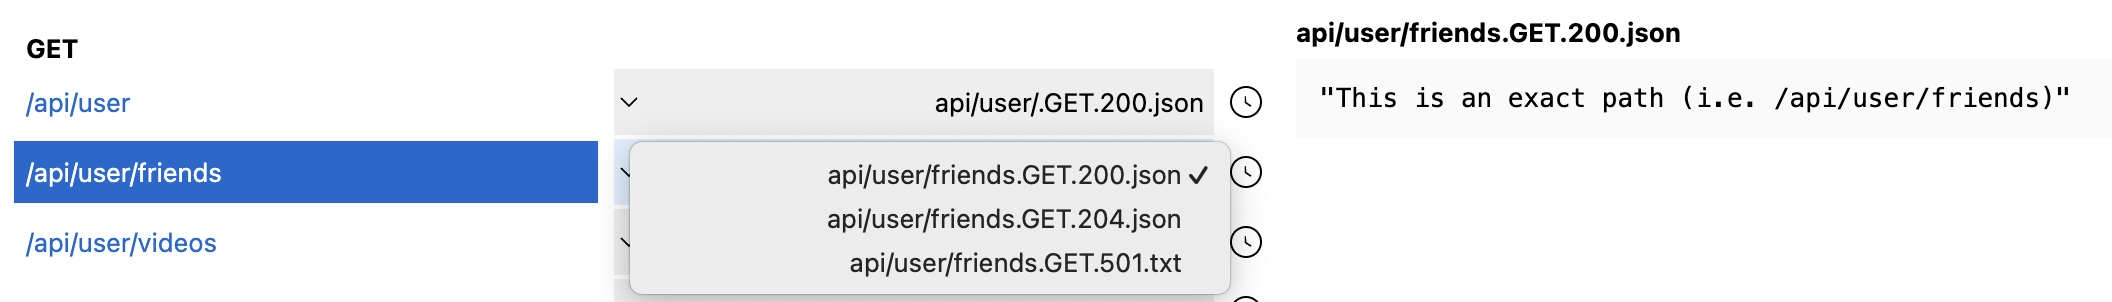
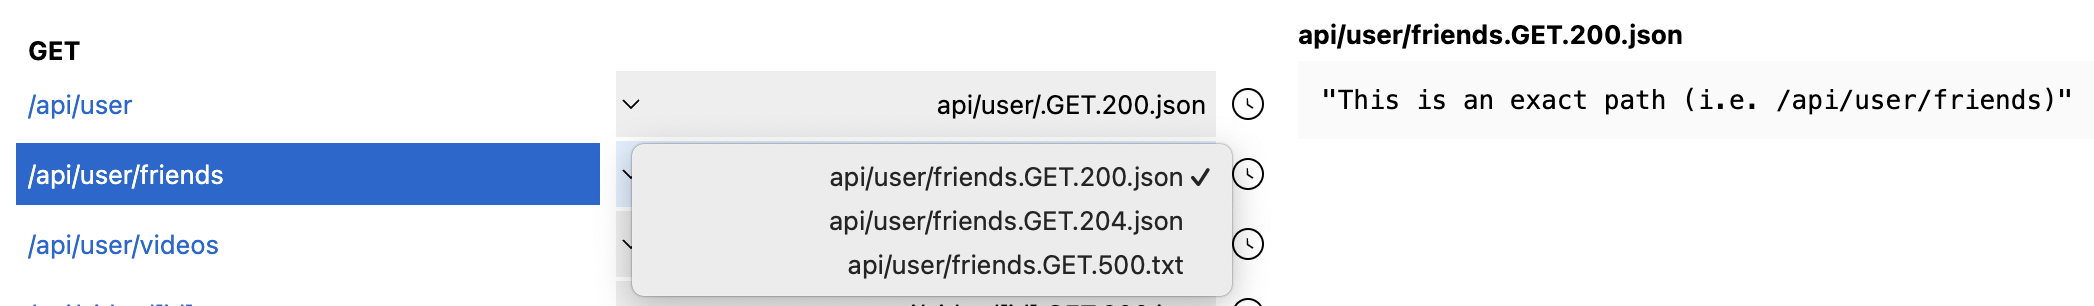
501 -> 500
500 is Internal Server Error not 501

diff --git a/Tests.js b/Tests.js
@@ -90,7 +90,7 @@ const fixtures = [
 for (const [, file, body] of fixtures)
 	write(file, file.endsWith('.json') ? JSON.stringify(body) : body)
 
-write('api/.GET.501.txt', 'keeps non-autogenerated 501')
+write('api/.GET.500.txt', 'keeps non-autogenerated 500')
 write('api/alternative(comment-2).GET.200.json', JSON.stringify({ comment: 2 }))
 write('api/my-route(comment-2).GET.200.json', JSON.stringify({ comment: 2 }))
 
@@ -120,14 +120,14 @@ async function runTests() {
 		'/api/alternative',
 		'api/alternative(comment-1).GET.200.json')
 
-	await testAutogenerates501(
+	await testAutogenerates500(
 		'/api/company-e/123?limit=9',
-		'api/company-e/[id]?limit=[limit].GET.501.txt')
+		'api/company-e/[id]?limit=[limit].GET.500.txt')
 
-	await testPreservesExiting501(
+	await testPreservesExiting500(
 		'/api',
-		'api/.GET.501.txt',
-		'keeps non-autogenerated 501')
+		'api/.GET.500.txt',
+		'keeps non-autogenerated 500')
 
 	await reset()
 	await testItUpdatesTheCurrentSelectedMock(
@@ -215,29 +215,29 @@ async function testItUpdatesDelayAndFile(url, file) {
 }
 
 
-async function testAutogenerates501(url, file) {
+async function testAutogenerates500(url, file) {
 	await request(DP.edit, {
 		method: 'PATCH',
 		body: JSON.stringify({ [DF.file]: file })
 	})
 	const res = await request(url)
 	const body = await res.text()
-	await describe('autogenerated 501', () => {
+	await describe('autogenerated 500', () => {
 		it('body is empty', () => equal(body, ''))
-		it('status is: 501', () => equal(res.status, 501))
+		it('status is: 500', () => equal(res.status, 500))
 	})
 }
 
-async function testPreservesExiting501(url, file, expectedBody) {
+async function testPreservesExiting500(url, file, expectedBody) {
 	await request(DP.edit, {
 		method: 'PATCH',
 		body: JSON.stringify({ [DF.file]: file })
 	})
 	const res = await request(url)
 	const body = await res.text()
-	await describe('preserves existing 501', () => {
+	await describe('preserves existing 500', () => {
 		it('body is empty', () => equal(body, expectedBody))
-		it('status is: 501', () => equal(res.status, 501))
+		it('status is: 500', () => equal(res.status, 500))
 	})
 }
 

diff --git a/MockBroker.js b/MockBroker.js
@@ -80,24 +80,24 @@ export class MockBroker {
 		return comments
 	}
 
-	ensureItHas501() {
-		if (!this.#has501())
-			this.#write501()
+	ensureItHas500() {
+		if (!this.#has500())
+			this.#write500()
 	}
 
-	#has501() {
+	#has500() {
 		return this.mocks.some(mock =>
-			Route.parseFilename(mock).status === 501)
+			Route.parseFilename(mock).status === 500)
 	}
 
-	#write501() {
+	#write500() {
 		// TODO handle route with transforms but without mocks
 		const { urlMask, method } = Route.parseFilename(this.mocks[0])
 		let mask = urlMask
 		const t = join(Config.mocksDir, urlMask)
 		if (existsSync(t) && lstatSync(t).isDirectory())
 			mask = urlMask + '/'
-		const file = `${mask}.${method}.501.txt`
+		const file = `${mask}.${method}.500.txt`
 		writeFileSync(join(Config.mocksDir, file), '')
 		this.register(file)
 	}

diff --git a/mockBrokersCollection.js b/mockBrokersCollection.js
@@ -35,7 +35,7 @@ export function init() {
 				collection[method][urlMask].register(file)
 		}
 	}
-	forEachBroker(broker => broker.ensureItHas501())
+	forEachBroker(broker => broker.ensureItHas500())
 }
 
 export const getAll = () => collection

diff --git a/README.md b/README.md
@@ -39,8 +39,8 @@ The **sample-mocks/** directory has three mock alternatives for serving
 `/api/user/friends`:
 - _200 - OK_
 - _204 - No Content_ with an empty list of friends
-- _501 - Internal Server Error_
-	- BTW, 501 mocks get autogenerated for routes that have no 501’s.
+- _500 - Internal Server Error_
+	- BTW, 500 mocks get autogenerated for routes that have no 500’s.
 
 ![](./README-dashboard-dropdown.png)
 
@@ -49,7 +49,7 @@ Comments are anything within parentheses, including them.
 ![](./README-mocks-with-comments.png)
 
 ## Delay 🕓
-The clock icon next to the mock selector dropdown is a checkbox for delaying a
+The clock icon next to the mock selector is a checkbox for delaying a
 particular response. They are handy for testing spinners.
 
 The milliseconds for the delay is globally configurable via `Config.delay = 1200`
